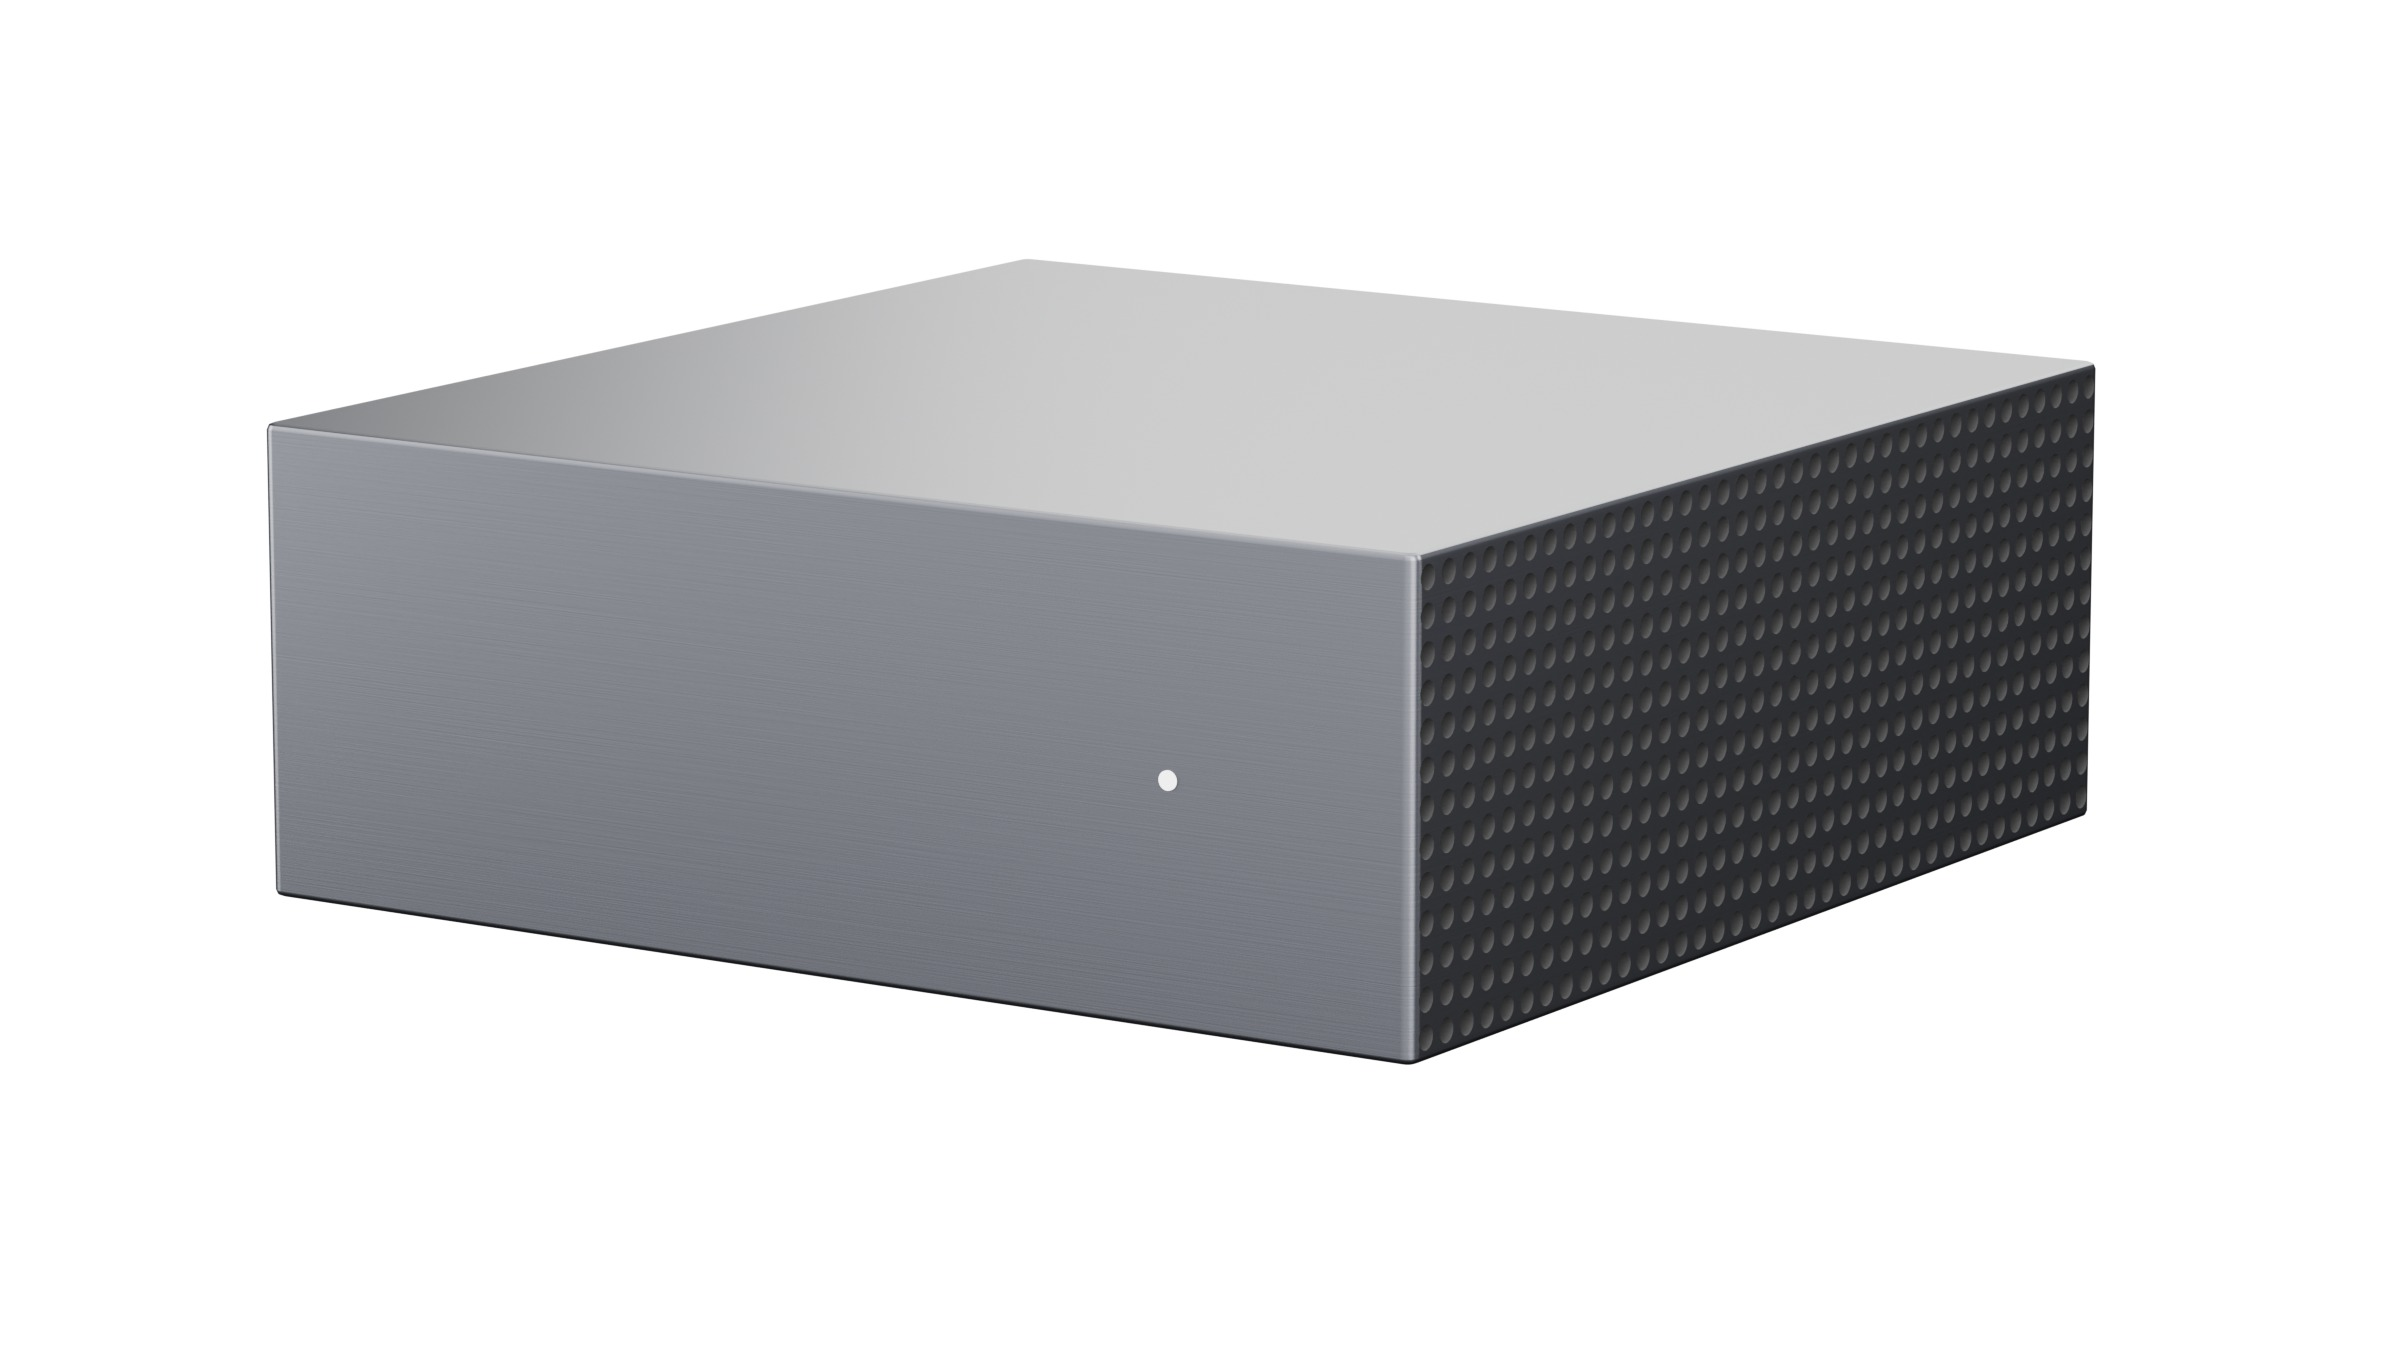
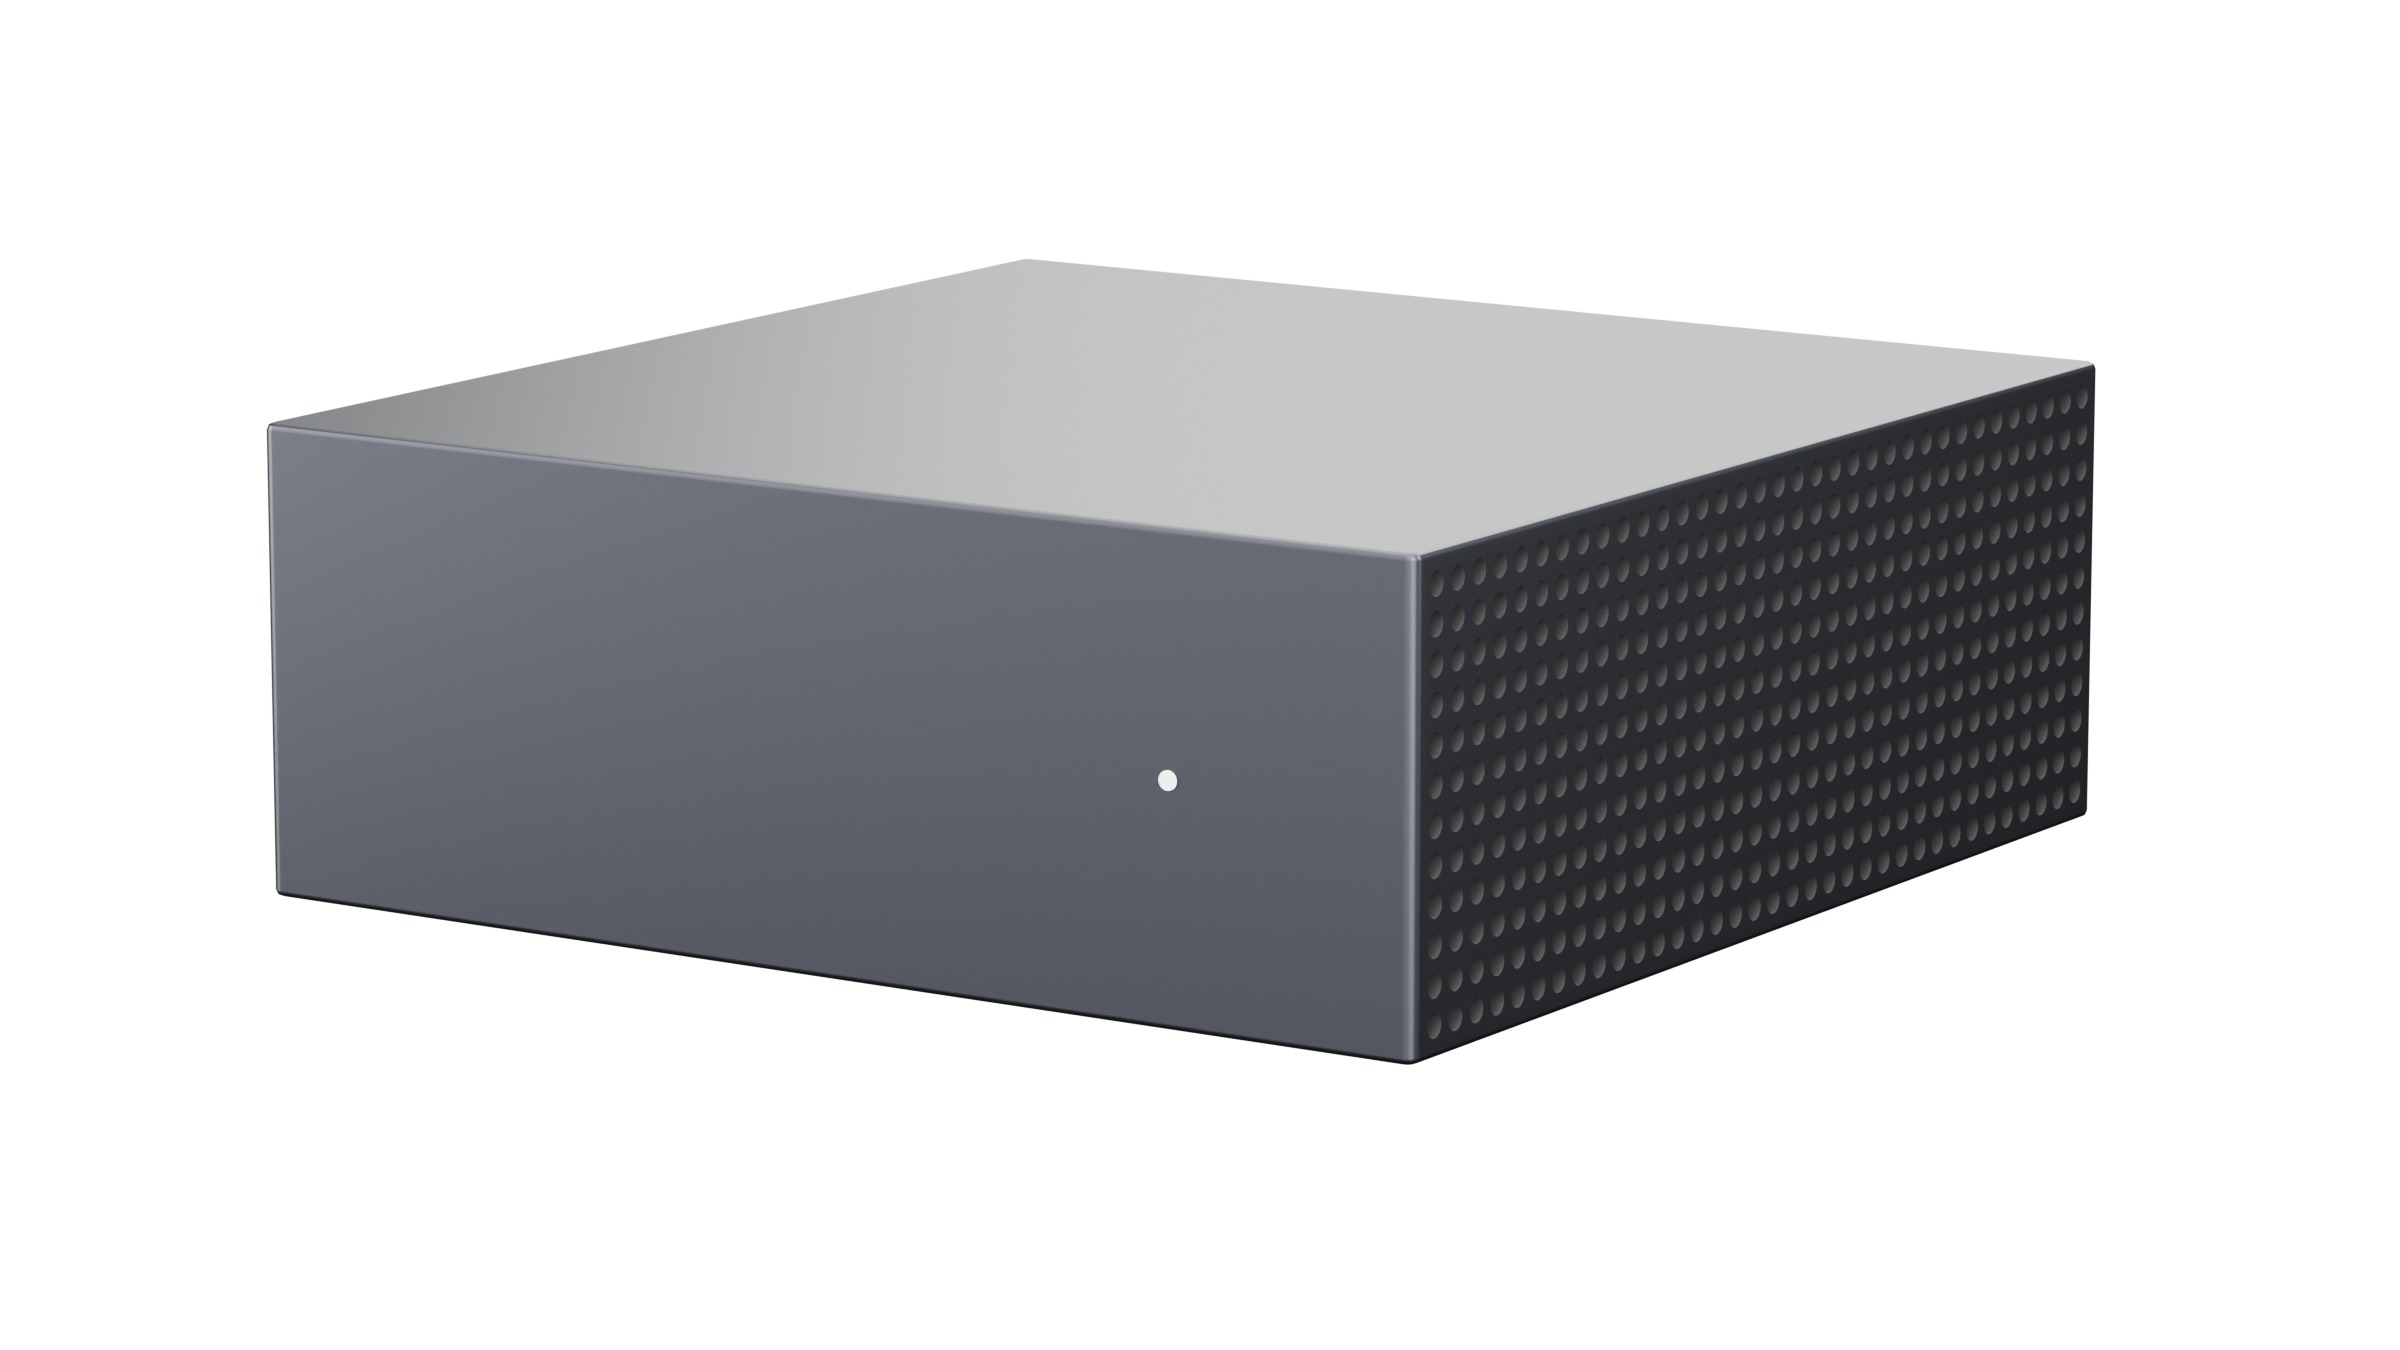
Deck: AuraWake hole grid on flat faces, bead-blast satin, matte plastic variant

Changed region(s): [[0.0938, 0.28, 0.875, 0.8089]]

diff --git a/deck/blender/aura.py b/deck/blender/aura.py
@@ -13,6 +13,7 @@ argv = sys.argv[sys.argv.index('--') + 1:]
 MODE, OUT = argv[0], os.path.abspath(argv[1])
 SHOT = argv[2] if len(argv) > 2 else ''
 PREVIEW = 'preview' in argv
+PLASTIC = 'plastic' in argv
 os.makedirs(OUT, exist_ok=True)
 bpy.ops.wm.read_factory_settings(use_empty=True)
 scene = bpy.context.scene
@@ -137,15 +138,17 @@ def bump_tex(m, kind, scale, strength, dist=0.0002, vec=None):
     return m
 
 HOLE_D = 0.0022
+EDGE_P, EDGE_T = 0.0012, 0.0006   # corner and top/bottom edge radii: the grid sits on the flat part of each face
 
-def grid(L, d, g0=0.001):
-    """Odd number of holes so one sits on the centre line; the gap between holes = the gap to the face edge."""
-    n = int((L - g0) / (d + g0)); n -= (n % 2 == 0)
-    return n, d + (L - n * d) / (n + 1)
+def grid(L, n, d=HOLE_D):
+    """n holes on a flat length L: the gap between holes equals the gap to the edge. Returns (pitch, offset, n)."""
+    g = (L - n * d) / (n + 1)
+    return d + g, (0.0 if n % 2 else (d + g) / 2), n
 
-NU, PU = grid(W, HOLE_D)   # 37 holes across a face
-NV, PV = grid(H, HOLE_D)   # 13 rows
-BTN_X = -11 * PU           # Bluetooth button on a hole position, right of the inlet seen from behind (world -X)
+PU, OU, NU = grid(W - 2 * EDGE_P, 35)   # gap ≈ 1.13 mm
+PV, OV, NV = grid(H - 2 * EDGE_T, 12)   # gap ≈ 1.17 mm (as close as whole holes allow)
+def cols(p, o, n): return [-(n - 1) / 2 * p + i * p for i in range(n)]
+BTN_X = -11 * PU           # Bluetooth button on a hole column, right of the inlet seen from behind (world -X)
 
 def speaker_mask(nt):
     """Speaker holes on the sides and the back; around the inlet and the button whole holes are left out, so both sit
@@ -165,20 +168,20 @@ def speaker_mask(nt):
     isB = op('GREATER_THAN', Nn.outputs[1], 0.5)
     u = op('ADD', op('MULTIPLY', isX, y), op('MULTIPLY', isB, x))
     v = op('SUBTRACT', z, MID)
-    iu, iv = op('ROUND', op('DIVIDE', u, PU)), op('ROUND', op('DIVIDE', v, PV))
-    fu, fv = op('SUBTRACT', u, op('MULTIPLY', iu, PU)), op('SUBTRACT', v, op('MULTIPLY', iv, PV))
+    iu, iv = op('ROUND', op('DIVIDE', op('SUBTRACT', u, OU), PU)), op('ROUND', op('DIVIDE', op('SUBTRACT', v, OV), PV))
+    cu, cv = op('ADD', op('MULTIPLY', iu, PU), OU), op('ADD', op('MULTIPLY', iv, PV), OV)
+    fu, fv = op('SUBTRACT', u, cu), op('SUBTRACT', v, cv)
     hole = op('LESS_THAN', op('ADD', op('MULTIPLY', fu, fu), op('MULTIPLY', fv, fv)), (HOLE_D / 2) ** 2)
-    region = op('MULTIPLY', op('LESS_THAN', op('ABSOLUTE', iu), (NU - 1) / 2 + 0.5), op('LESS_THAN', op('ABSOLUTE', iv), (NV - 1) / 2 + 0.5))
-    cu, cv = op('MULTIPLY', iu, PU), op('MULTIPLY', iv, PV)
+    region = op('MULTIPLY', op('LESS_THAN', op('ABSOLUTE', cu), (NU - 1) / 2 * PU + 1e-5), op('LESS_THAN', op('ABSOLUTE', cv), (NV - 1) / 2 * PV + 1e-5))
     def away(cx, rr):  # whole holes only: distance from the hole centre
         return op('GREATER_THAN', op('ADD', op('POWER', op('SUBTRACT', cu, cx), 2.0), op('POWER', cv, 2.0)), rr * rr)
     back = op('MULTIPLY', isB, op('MULTIPLY', away(0.0, 0.0072), away(BTN_X, 0.0082)))
     return op('MULTIPLY', op('MULTIPLY', hole, region), op('MAXIMUM', isX, back))
 
 def satin(name, color):
-    m = principled(name, color, metal=1.0, rough=0.34); nt = m.node_tree; b = nt.nodes['Principled BSDF']
-    tc = nt.nodes.new('ShaderNodeTexCoord'); mp = nt.nodes.new('ShaderNodeMapping'); mp.inputs['Scale'].default_value = (40, 40, 9000)
-    nz = nt.nodes.new('ShaderNodeTexNoise'); nz.inputs['Scale'].default_value = 1.0; nz.inputs['Detail'].default_value = 3
+    m = principled(name, color, metal=0.0 if PLASTIC else 1.0, rough=0.7 if PLASTIC else 0.38); nt = m.node_tree; b = nt.nodes['Principled BSDF']
+    tc = nt.nodes.new('ShaderNodeTexCoord'); mp = nt.nodes.new('ShaderNodeMapping'); mp.inputs['Scale'].default_value = (1, 1, 1)
+    nz = nt.nodes.new('ShaderNodeTexNoise'); nz.inputs['Scale'].default_value = 9000.0; nz.inputs['Detail'].default_value = 2
     bp = nt.nodes.new('ShaderNodeBump'); bp.inputs['Strength'].default_value = 0.05; bp.inputs['Distance'].default_value = 0.0001
     nt.links.new(tc.outputs['Object'], mp.inputs['Vector']); nt.links.new(mp.outputs['Vector'], nz.inputs['Vector'])
     nt.links.new(nz.outputs['Fac'], bp.inputs['Height']); nt.links.new(bp.outputs[0], b.inputs['Normal'])
@@ -205,8 +208,8 @@ def body_toon(name, color):
 STUDIO = SHOT in ('front', 'back', 'top', 'bottom', 'cable', 'persp', 'lit', 'band', 'persp_back')
 if MODE == 'real':
     MATS = {
-        'body': body_real('body', srgb('#3b3c40')),
-        'shell': satin('shell', srgb('#3b3c40')),
+        'body': body_real('body', srgb('#2c2d31')),
+        'shell': satin('shell', srgb('#2c2d31')),
         'alu': bump_tex(principled('alu', srgb('#18181b'), metal=1.0, rough=0.5), 'noise', 4000, 0.04),
         'grille': grille('grille', srgb('#060607'), srgb('#000000')),
         'rubber': principled('rubber', srgb('#0a0a0b'), rough=0.8),
@@ -360,13 +363,12 @@ def holes_bm(depth=0.0032, seg=16):
     bm = bmesh.new(); r = HOLE_D / 2
     def add(m):
         bmesh.ops.create_cone(bm, cap_ends=True, segments=seg, radius1=r, radius2=r, depth=depth, matrix=m)
-    for iu in range(-(NU // 2), NU // 2 + 1):
-        for iv in range(-(NV // 2), NV // 2 + 1):
-            u, z = iu * PU, MID + iv * PV
+    for u in cols(PU, OU, NU):
+        for cv in cols(PV, OV, NV):
+            z = MID + cv
             for sx in (-1, 1):
                 add(Matrix.Translation((sx * W / 2, u, z)) @ Matrix.Rotation(math.pi / 2, 4, 'Y'))
-            cu, cv = u, iv * PV
-            if cu * cu + cv * cv > 0.0072 ** 2 and (cu - BTN_X) ** 2 + cv * cv > 0.0082 ** 2:
+            if u * u + cv * cv > 0.0072 ** 2 and (u - BTN_X) ** 2 + cv * cv > 0.0082 ** 2:
                 add(Matrix.Translation((u, W / 2, z)) @ Matrix.Rotation(math.pi / 2, 4, 'X'))
     return bm
 
@@ -383,7 +385,7 @@ def cut(ob, bm, loc, mat):
 def build_base(with_time=False, time='06:14'):
     """Solid graphite block: speakers behind dot grilles on the sides and back, time + LED at the front, USB-C and the
     Bluetooth button at the back, haptic + magnetic top for the bracelet, thin rubber disc ringed by the light strip."""
-    body = rbox('body', W, W, H, 0.0012, 0.0006, 'body', (0, 0, PL), sp=4, se=2)
+    body = rbox('body', W, W, H, EDGE_P, EDGE_T, 'body', (0, 0, PL), sp=4, se=2)
     cut(body, stadium_bm(0.0084, 0.0026, 0.012), (0, W / 2, MID), 'rubber')  # USB-C receptacle
     cut(body, cutter_bm([(BTN_X, 0, 0.0057)], 0.002), (0, W / 2, MID), 'rubber')
     if MODE == 'real': cut(body, holes_bm(), (0, 0, 0), 'cavity')
@@ -580,6 +582,7 @@ def real():
     colour_management('AgX')
     if STUDIO:
         studio(SHOT)
+        if PLASTIC: scene.view_settings.exposure = -2.6  # matte plastic takes far more of the studio light than metal
     else:
         build_base(with_time=(SHOT == 'dawn'))
         MATS['wood'] = wood()
@@ -595,7 +598,7 @@ def real():
             area('sun', (1.0, 0.3, 0.35), (0, 0, 0.03), 0.5, 45, (1.0, 0.62, 0.32))
             area('bounce', (-0.5, -0.6, 0.3), (0, 0, 0.03), 0.8, 14, (1.0, 0.85, 0.7))
         look((0.33, -0.46, 0.14), (0.0, 0.01, 0.024), 70, 2.8)
-    scene.render.filepath = os.path.join(OUT, f'aurawake-{SHOT}{"-preview" if PREVIEW else ""}.png')
+    scene.render.filepath = os.path.join(OUT, f'aurawake-{SHOT}{"-plastic" if PLASTIC else ""}{"-preview" if PREVIEW else ""}.png')
     bpy.ops.render.render(write_still=True)
 
 # ---------------------------------------------------------------------------------------------------------------
